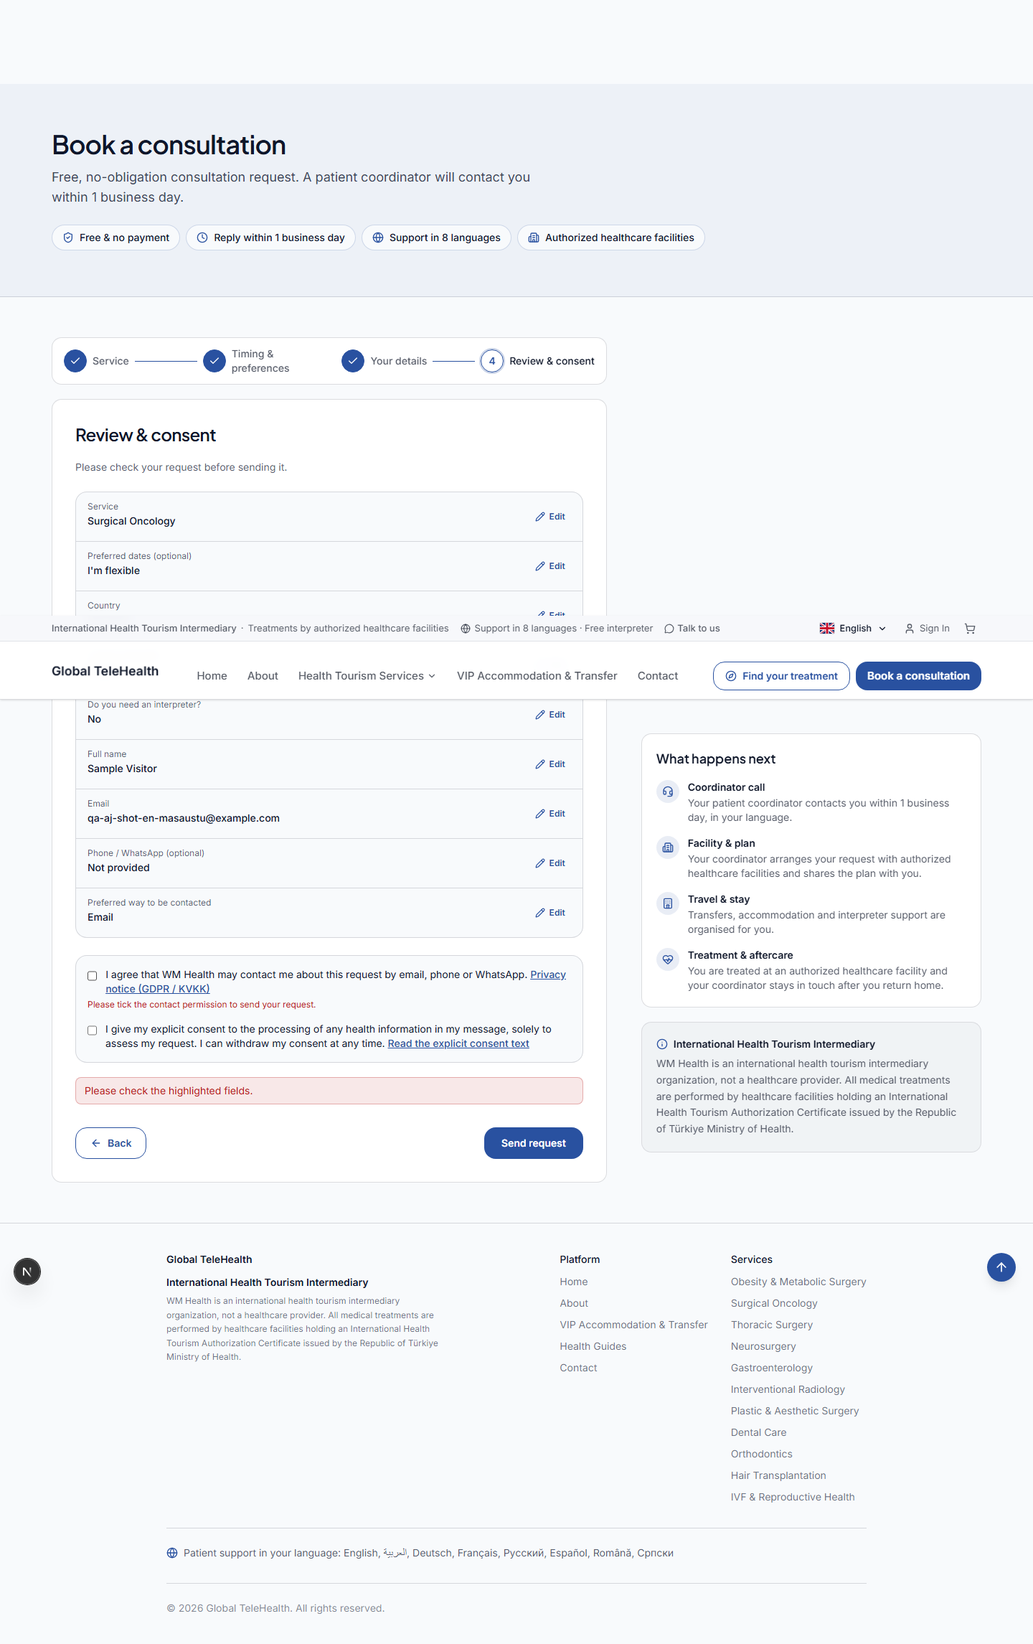
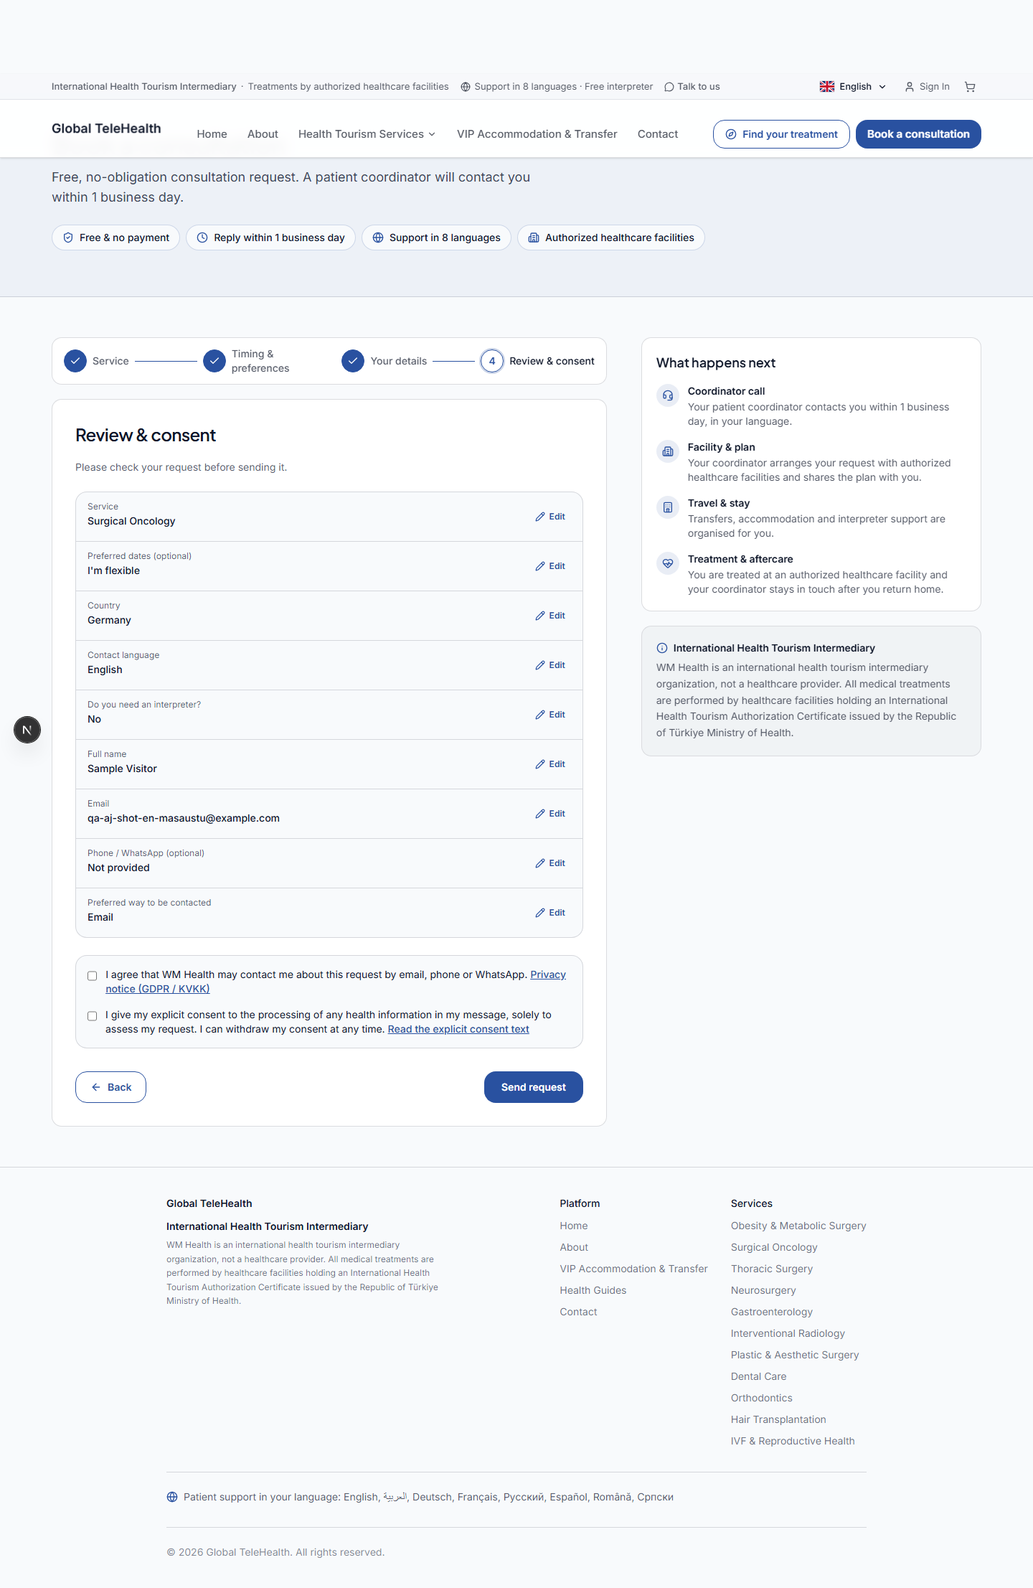
docs(aj): Paket AJ raporu ve AG Is 3 durum raporu; e2e spec'e inceleme adimi riza hatasi kontrolu, yenilenen EN goruntuleri

diff --git a/frontend/tests/e2e/aj-screenshots.spec.ts b/frontend/tests/e2e/aj-screenshots.spec.ts
@@ -380,6 +380,8 @@ for (const lang of LANGS) {
         await shot("07-talep-adim3", true);
         await page.getByTestId("request-next").click();
         await expect(page.getByTestId("request-step-4")).toBeVisible();
+        // AJ-7 düzeltmesi (58ec452): inceleme adımına geçmek formu göndermez, rıza hatası kullanıcı göndermeden görünmez.
+        await expect(page.getByTestId("request-consent-contact-error")).toHaveCount(0);
         await shot("08-talep-adim4", true);
         await page.getByTestId("request-consent-contact").check();
         await page.getByTestId("request-consent-health").check().catch(() => undefined);

diff --git a/docs/prompts/2026-11-02-AJ-RAPOR.md b/docs/prompts/2026-11-02-AJ-RAPOR.md
@@ -1,0 +1,169 @@
+# Paket AJ — Gece Düzeltmeleri Raporu (2026-11-03 sabahı)
+
+Dal: **`feat/aj-fixes-nov02`** (taban `a594b39` = canlıdaki master). Push yapılmadı. Her AJ işi ayrı commit.
+Netleştirme uygulandı: "video consultation" ifadesi **kaldı** (görüşmeyi hasta koordinatörü yapar); yalnızca doktorla görüşme ima eden ifadeler düzeltildi. LiveKit / görüşme odası / `consultation-room.tsx` / doktor token kuralları **değişmedi**. Compose, Dockerfile, Nginx, `.env`, `docs/legal/` **değişmedi**. Yeni npm paketi yok. Tek migration yalnızca ekleme.
+
+## 1. Commit'ler (sırayla)
+
+| İş | Commit | Özet |
+|---|---|---|
+| AJ-5 | `be45326` | `doktor.` alt alan adı ve `/doctor/**` ziyaretçiye kapalı → 301 ana site kökü; `DOCTOR_PORTAL_ENABLED=true` ile geri açılır |
+| AJ-7 (BE) | `34fe0e8` | Talepte tercih edilen iletişim kanalı (`preferredContactChannel`), migration, OpenAPI, test |
+| AJ-4 (BE) | `2db055e` | CRM Talepler uçları `/admin/crm/requests` (liste, filtre, durum, atama, iç not, CSV, mesaj görüntüleme + audit) |
+| AJ-3 | `e90d3fe` | VIP Accommodation & Transfer zengin sayfa (6 kart, yolculuk şeridi, CTA, CMS görselleri, 8 dil) |
+| AJ-7 (FE) | `763abd3` | `/request` 4 adımlı form, yapışkan yan panel, başarı ekranı, kanal seçimi, header taşma önlemi |
+| AJ-4 (FE) | `99189b2` | Admin CRM → "Danışma Talepleri" ekranı |
+| AJ-6 (BE) | `5b478d0` | `fill-footer-intermediary.ts` (Platform / Services / Legal, 8 dil, kuru/yedek/restore/prod bayrağı) |
+| AJ-9 (BE) | `957a235` | `apply-brand-theme.ts` (#2951a0 / #4ab9e1, WCAG AA kontrolü) + e-posta yedek rengi marka mavisi |
+| AJ-2 (BE) | `1ae9e2c` | Müşteri e-postaları ve paket tohum metinlerinde hekim ima eden ifadeler → tedavi / yetkili sağlık kuruluşu dili |
+| AJ-7 (FE) | `28a993d` | Talep formu VIP `?topic=` parametresiyle mesajı ön doldurur (8 dil) |
+| AJ-8 | `4fde5a3` | Üst şerit: Contact support ve WhatsApp kalktı, "Talk to us" tek öğe, kesilmez metin, mobil kısa ibare şeridi, ziyaretçi destek listesinde TR yok |
+| AJ-1 | `572919e` | Ana sayfa koordinatör bandı yeniden tasarımı (iki dengeli kolon, eşit dil çipleri, dikey düğmeler + Book a consultation) |
+| AJ-2 (FE) | `ecfaeb1` | Find your treatment modalı (tema rengi, yatay taşma, kapat odak halkası, eşit kartlar) + ziyaretçi tarafı hekim taraması + HTML tarama testi |
+| AJ-6 (FE) | `efbd7ad` | Ana sayfa CMS hekim vurgulu metinleri süzülür, boş footer kolonu gizlenir, "Book a consultation" etiketi |
+| AJ-2 (FE) | `f046601` | Header eski menü verisindeki "Consult Physicians" öğesini çizmez; kullanılmayan `vip*` / `dropdownFindDoctor` anahtarları silindi |
+| AJ-4 (test) | `c3f235d` | Tarih filtresi testi İstanbul günüyle (gece 00–03 arası düşüyordu; ürün kodu doğruydu) |
+| AJ-9 (test) | `aba3248` | Kalite turu ekran görüntüsü spec'i + 140 görüntülük matris |
+| AJ-7 (düzeltme) | `58ec452` | İnceleme adımına geçince form kendiliğinden gönderilmiyor (kalite turu bulgusu) |
+| AJ-2 (test) | `c4f21e7` | Mobil dil seçici testi eski hekim menü kaydının çizilmediğini bekler |
+| AJ-9 (test) | (bu rapor commit'i) | E2E spec'e inceleme adımı rıza hatası kontrolü, yenilenen EN görüntüleri |
+
+Not: `763abd3`, `28a993d`, `4fde5a3`, `572919e`, `ecfaeb1`, `efbd7ad` commit'lerinin ortak yazar satırı "Claude Sonnet 5.5" yazıyor (alt ajan oturumunun atıf ayarı); içerik etkilenmez, geçmiş yeniden yazılmadı.
+
+## 2. Yapılamayanlar / bilinçli bırakılanlar
+
+- **Telehealth tema rengi (ana sayfa hero'su teal):** hero gradyanı `Tele-Sağlık → Ayarlar → Tema` değerinden geliyor; `apply-brand-theme.ts` yalnızca site görünümünü (`SiteAppearance`) değiştiriyor. Gece script'i genişletmedim → **panelden** düzeltilecek (§6).
+- **İletişim sayfası hidrasyon uyarısı (AJ öncesi, mevcut sorun):** telefon ülke kodu listesi `Intl.DisplayNames` ile üretiliyor; Node ve tarayıcı farklı ad/sıralama veriyor. Sayfa çalışıyor, yalnızca geliştirme ortamında uyarı. Yapılacaklar listesine alındı.
+- **Kap genişliği tutarlılığı (öneri):** header `max-w-[1360px]`, içerik sayfaları `max-w-6xl`, footer `max-w-5xl`. Bu AJ öncesi site deseni; tüm siteyi gece değiştirmek riskli olduğu için yapılmadı. İstenirse tek iş olarak ele alınabilir.
+- **Admin paneli (ziyaretçi dışı):** CRM ekranında breadcrumb "CRM > Düzenle" yanlış etiket; admin panelinde indigo kalıntıları; yan menüde "Yetki Belgeleri ve Akreditasyonlar" kırpılıyor. Küçük, sonraki tura.
+- **Yorum daveti e-postası** ("Thank you for your consultation with {doctor}") ve mevcut telehealth randevu e-postaları: geçmiş doktor randevularına ait, yeni randevu açılamadığı için **legacy** bırakıldı.
+- **`packages.routes.ts` `relatedDoctors`:** public API'de hâlâ dönüyor, ziyaretçiye gizleme frontend'de. Backend'den kapatmak ayrı karar.
+- **MANAGER rolüyle PII'siz CSV:** CRM kapısı yalnızca ADMIN'e açık olduğundan HTTP üzerinden test edilemedi (kod dalı mevcut).
+
+## 3. Varsayımlar
+
+- "decisions are made by physicians at authorized healthcare facilities" türü ifadeler **aracı kuruluş beyanı** sayıldı ve izinli bırakıldı (HTML tarama testinde istisna listesinde).
+- Koordinatör bandı açıklamasından "interpreters … at no extra cost" çıkarıldı; tercüman cümlesi yalnızca ayarda tercüman dahilse görünür (doğruluk kuralı).
+- Üst şerit öğeleri kodda olduğu için AJ-8'de veri script'i gerekmedi.
+- AJ-6 CMS süzme kayıtları **silmez**; yalnızca ziyaretçiye göstermez. Kalıcı temizlik panelden (§6).
+
+## 4. Migration
+
+`20261116090000_aj_contact_channel` — yalnızca ekleme:
+
+```sql
+ALTER TABLE "consultation_requests" ADD COLUMN "preferredContactChannel" TEXT;
+```
+
+## 5. Hekim ifadesi tarama tablosu (özet)
+
+| Yer | İfade | Değişiklik |
+|---|---|---|
+| Matcher onay e-postası (8 dil) | "physician matching request" vb. | "treatment matching request" ve karşılıkları |
+| Paket tohum metinleri | "Consultation/Assessment by a physician" | "…at an authorized healthcare facility" |
+| Matcher sözlükleri (9 dil) | Physicians who can help, Book with {name}, View profile… | 7 kullanılmayan anahtar silindi; `priorLabel` → "Has this already been diagnosed?" |
+| `trust-pages.ts` `csIntro` (8 dil) | "consultation with a physician" | "a medical consultation" |
+| `blog.ts`, `packages.ts`, `reviews.ts`, `telehealth.ts` | Consult a physician, doktor sayıları vb. | kullanılmayan anahtarlar silindi |
+| Yorum kartları | "Reply from the physician" | `DOCTORS_VISIBLE_TO_VISITORS` bayrağına bağlandı |
+| Ziyaretçi RSC yükü | yorumlardaki `doctor` / `doctorReply` | `withoutDoctorFromReviews` ile çıkarıldı (kayıt silinmez) |
+| İletişim sayfası | `?doctor=` ön doldurma | bayrak kapalıyken yok sayılır |
+| Header / footer | `/physicians` "Consult Physicians" | süzülüyor |
+| Ana sayfa CMS (hero, journey, doctors, closing) | "Meet Our Medical Team", "video consultation with our doctors" | kodda süzülüyor → sözlük varsayılanı |
+| `request.ts` / `nav.ts` | eski `vip*` (18), `dropdownFindDoctor` | silindi (9 dil) |
+
+Otomatik koruma: `frontend/tests/unit/aj-visitor-doctor-scan.test.tsx` (render edilmiş metin + aria/title/alt + JSON-LD; EN tam, 7 dilde sözcük taraması). İstisna listesi boş (FE-A beklemedekiler kapatıldı).
+
+## 6. Panelden düzeltmeniz gerekenler
+
+Kod bu alanları ziyaretçiden zaten gizliyor; panel düzeltmesi kalıcı temizlik ve doğru metin içindir.
+
+1. **Tele-Sağlık → Ayarlar → Tema:** `primaryColor = #2951a0`, `calendarActiveBg = #2951a0`, `accentColor = #4ab9e1` (secondary `#0369a1` kalabilir veya `#2951a0`). Ana sayfa hero'su ve (AI İş 3'te) randevu ekranı bu renkleri kullanır.
+2. **Görünüm → Renkler:** `apply-brand-theme.ts` çalıştıktan sonra script'in listelediği mor tonlu kalanları (ör. `pageHeaderBackgroundColor = #7c3aed`) marka mavisine çekin.
+3. **Ana sayfa (Sayfalar → Ana Sayfa) blokları:**
+
+| Blok | Alan | Olası mevcut metin | Önerilen (EN) |
+|---|---|---|---|
+| Hero | eyebrow / başlık / gövde / CTA | "Meet Our Medical Team", "video consultation with our doctors" | Gövde: "Free online video consultation with a patient coordinator — interpreter included." CTA: "Book a consultation" / "Find your treatment" |
+| Hero | görsel alt metni | "Doctor on a video call" | "Patient coordinator on a video call" |
+| Journey adım 3 | text | "The physician responsible for your care completes…" | "Examinations and treatment take place at an authorized healthcare facility, with your coordinator by your side." |
+| Doctors bölümü | enabled | açık | **kapatın** |
+| Closing | başlık / CTA | hekim ima eden metin | "Start with a consultation" |
+| SEO | title / description | "…our doctors" | "…patient coordination and authorized healthcare facilities" |
+
+4. **Hakkımızda:** hero gövdesindeki "Founded under the leadership of Dr. Vahit Mutlu…" → doktor adı olmayan aracı kuruluş metni; "Meet our doctors" CTA → "Who we are"; Doctors bölümünü kapatın; closing CTA "Book a consultation" → `/request`.
+5. **Menü / footer:** "Consult Physicians", "Doctors", `/physicians` öğelerini silin (kod zaten gizliyor).
+6. **Yasal sayfalar:** her EN yasal sayfaya EN slug + EN başlık girip yayınlayın; footer script'inin "EKLENMEDİ" uyarısı bunları listeler; sonra script'i yeniden çalıştırın.
+7. **VIP görselleri:** Sayfalar → slug `vip-accommodation-transfer` sayfasına en çok 6 görsellik galeri ekleyin (yoksa sayfa ikonlu kartlarla görünür).
+8. **Paketler ve SSS:** "physician" geçen paket "includes" satırlarını güncelleyin (tohum değişikliği canlı kayıtları değiştirmez).
+9. **İletişim sayfası ayarları:** telefon ve e-posta doluysa talep sayfası yan panelinde otomatik görünür. **Telehealth dil desteği** ayarında `tr` seçiliyse kaldırın (kod zaten gizliyor). **Belge numarası** girilirse yan panelde belge satırı çıkar.
+10. Destek saati metni ("Mon–Sat…") ayar verisinde tek dilde; AR'de de İngilizce görünür — istenirse ayardan dile göre düzenleyin.
+
+## 7. Script kuru çalışma çıktıları (saas_test)
+
+**Footer:** Platform 1 güncelleme + 4 ekleme, Services aktif üst hizmetler, Legal EN yasal sayfalar; TR yasal sayfa çıkarılır; ikinci çalışma "Yapılacak değişiklik yok (idempotent)"; restore çalıştı.
+**Marka renkleri:** tüm kontrastlar GEÇTİ (düğme metni 7.56:1; vurgu #4ab9e1 yalnızca dekoratif, metin rengi değil); `pageHeaderBackgroundColor=#7c3aed` listelenir ama değiştirilmez.
+
+## 8. Ekran görüntüleri
+
+- Ana: `docs/prompts/2026-11-02-AJ-ekran/` — EN/AR, 1440 ve 390: ana sayfa (üst şerit, koordinatör bandı, footer), talep adım 1–4 + başarı, Find your treatment modalı (başlangıç + sonuç), admin CRM talepler liste + detay.
+- Kalite turu matrisi: `docs/prompts/2026-11-02-AJ-ekran/kalite-turu/` — 2 dil × 5 genişlik (1440/1280/1024/768/390) × 14 sayfa = 140 görüntü + `bulgular.json`.
+- "Önce" referansı: `docs/prompts/2026-11-02-AI-ekran/` ve `2026-11-02-AH-ekran/`.
+- **Yatay taşma:** 140 ölçümün hiçbirinde taşma yok. Ziyaretçi sayfalarında mor/indigo kalıntı yok. VIP'te uydurma istatistik / sahte akreditasyon / fiyat / "doktorlarımız" yok.
+
+## 9. Testler
+
+- **Backend tam süit (sıralı):** 2930 geçti, 12 atlandı; düşenler: `telehealth-demo-payment` (bilinen, önceden düşen), `crm-requests` (gece saat dilimi testi → düzeltildi `c3f235d`, yeniden koşuda geçti), `telehealth-admin-reschedule` (DB sıfırlamada anlık deadlock; tek başına geçti).
+- **Frontend tam süit (sıralı, `--no-file-parallelism`):** 2221 geçti, 2 düştü → `featured-doctors-block` (bilinen, önceden düşen) ve `language-sheet` (eski "Consult Physicians" menü öğesini bekliyordu; AJ-2 davranışına göre güncellendi `c4f21e7`, 7/7 geçti).
+- **E2E (gerçek tarayıcı, headless):** `aj-screenshots.spec.ts` "ana en masaustu / mobil" — talep 4 adım + gönderim + başarı, inceleme adımında rıza hatası **görünmüyor** (`58ec452` doğrulandı). 3/3 geçti.
+- Hedefli: `aj-visitor-doctor-scan` 23, `ah-request-form` 34, `ai-services-menu` 17, `matcher-wizard` 18, `visitor-no-turkish` yeşil.
+- typecheck: yeni hata yok (yalnızca eski `.next/types` artefaktları). eslint: yeni hata yok (bilinen `admin-panel-guard-route-table`, `reports-format`).
+- Yeni testler: `crm-requests` (8), `consultation-requests` (+1), `fill-footer-intermediary` (3), `apply-brand-theme` (5), `aj-visitor-doctor-scan` (23), `ah-request-form` (yeniden yazıldı, 34), e2e `tests/e2e/aj-screenshots.spec.ts` (`AJ_SHOTS=1`).
+
+## 10. Canlıya alma — adım adım (kopyalanabilir)
+
+Sunucuda, depo kökünde. Her script önce **kuru** çalıştırılır; ilk satırdaki `[hedef DB]` kontrol edilir.
+
+```bash
+# 0) Dalı master'a al (yerelde) ve sunucuda çek
+git checkout master && git merge --no-ff feat/aj-fixes-nov02 && git push   # (yerelde, siz)
+git pull                                                                  # (sunucuda)
+
+# 1) Değişkenler
+DB_URL=$(docker compose exec -T backend printenv DATABASE_URL | tr -d '\r')
+NET=$(docker inspect -f '{{range $k,$v := .NetworkSettings.Networks}}{{$k}}{{end}}' $(docker compose ps -q db))
+RUN() { docker run --rm --network "$NET" -v "$PWD/backend:/app" -w /app -e DATABASE_URL="$DB_URL" \
+  node:20-alpine sh -c "apk add --no-cache openssl >/dev/null && npm ci --silent && npx prisma generate >/dev/null && npx tsx $*"; }
+
+# 2) Migration (yalnızca ekleme: preferredContactChannel)
+docker run --rm --network "$NET" -v "$PWD/backend/prisma:/app/prisma" -w /app -e DATABASE_URL="$DB_URL" \
+  node:20-alpine sh -c "apk add --no-cache openssl >/dev/null && npx --yes prisma@5.22.0 migrate deploy"
+
+# 3) Uygulamayı yeniden kur
+docker compose up -d --build --no-deps backend frontend
+
+# 4) Footer doldurma (AJ-6) — önce kuru, sonra yazma
+RUN scripts/fill-footer-intermediary.ts
+RUN scripts/fill-footer-intermediary.ts --confirm=fill-footer-intermediary --operator="Ad Soyad" --i-know-this-is-prod
+#    Geri alma:
+#    RUN scripts/fill-footer-intermediary.ts --restore=storage/backups/footer-fill-<tarih>.json --confirm=fill-footer-intermediary --operator="Ad Soyad" --i-know-this-is-prod
+
+# 5) Marka renkleri (AJ-9) — önce kuru, sonra yazma
+RUN scripts/apply-brand-theme.ts
+RUN scripts/apply-brand-theme.ts --confirm=apply-brand-theme --operator="Ad Soyad" --i-know-this-is-prod
+#    Geri alma:
+#    RUN scripts/apply-brand-theme.ts --restore=storage/backups/brand-theme-<tarih>.json --confirm=apply-brand-theme --operator="Ad Soyad" --i-know-this-is-prod
+
+# 6) Yedek yolları (backend/storage/backups/) not edin
+ls -la backend/storage/backups/ | tail -5
+
+# 7) Duman testi
+curl -sI https://<site>/en/request | head -1
+curl -sI https://doktor.<site>/ | grep -i -E "^HTTP|^location"      # 301 → ana site bekleniyor (AJ-5)
+docker compose logs --tail=100 backend | grep -i error
+```
+
+Not: Footer "Services" etiketleri hizmet adlarından gelir; AI'nin `rename-service-labels.ts` script'i canlıda zaten çalıştıysa ek adım yok.
+
+**Elle duman testi:** `/en/request` 4 adım + tercih edilen kanal ile test talebi → admin "Danışma Talepleri" (liste, durum, atama, not, CSV, mesaj görüntüleme 2FA'lı ADMIN ile); footer 3 kolon dolu; düğme rengi `#2951a0`; `/en/vip-accommodation-transfer`; bölüm sayfasında `?finder=1` modalı; `doktor.` alt alanı ana siteye gidiyor. Ardından §6 panel listesi.
+
+**Doktor portalını geçici açmak gerekirse:** frontend ortamına `DOCTOR_PORTAL_ENABLED=true` (bu `.env` değişikliğini siz yaparsınız; ben dokunmadım).

diff --git a/docs/prompts/2026-11-02-AG-IS3-RAPOR.md b/docs/prompts/2026-11-02-AG-IS3-RAPOR.md
@@ -1,0 +1,73 @@
+# AG İş 3 (Harici Toplantı) — Durum Raporu (2026-11-03 sabahı)
+
+> Kısa özet: **AG İş 3 bu gece canlıya alınabilir durumda DEĞİL.** Sıra değişikliğiyle (SON SIRA: 1) AJ → 2) AI İş 3 hızlı sürüm → 3) AG İş 3'ün kalanı) iş yarıda donduruldu. Kod `feat/ag-meetings-nov02` dalında güvende; push yok. Bu rapor, kalan işi ve canlıya alma adımlarını sabah için hazır tutar.
+
+## 1. Dal ve commit'ler
+
+| Commit | Açıklama |
+|---|---|
+| `e80748d` | Yarım iş (`f5b6efa`) güncel master'ın (`a594b39` = AH Faz 1 + AI İş 1–2) üzerine taşındı; migration klasörü `20261115090000_external_meetings` olarak yeniden adlandırıldı. |
+| `506505c` | **WIP** — tamamlama turu yarıda (hata kodları, misafir adı doğrulaması, token uçları, davet e-postası tr→en, admin-users uçları, OpenAPI, 9 dil `meeting.ts` sözlükleri, form/kart/yönetici bileşenleri, testlerin bir kısmı). **Testler ve güvenlik incelemesi tamamlanmadı.** |
+
+Dal: `feat/ag-meetings-nov02` (taban `a594b39`). AJ dalıyla (`feat/aj-fixes-nov02`) çakışabilecek ortak dosyalar: `docs/architecture/openapi.yaml`, `backend/tests/unit/__snapshots__/branded-email.test.ts.snap`, `system-email-catalog.ts`, admin sidebar, `doctor-portal-route-guard` / `proxy.ts` (AJ-5 doktor alt alanını kapattı — bkz. §4).
+
+## 2. Onaylı kararlar (S1–S11) ve uygulama durumu
+
+| Karar | Durum |
+|---|---|
+| S1 `/admin/meetings` + `/{lang}/doctor/meetings` | Sayfalar var; admin sidebar'da "Toplantılar" ve "Yeni toplantı" düğmesi eklendi — **uçtan uca doğrulanmadı** |
+| S2 2FA zorunlu değil + öneri bilgilendirmesi + audit + oran sınırı | Kod kısmen; audit/oran sınırı testleri **eksik** |
+| S3 yetki geri alınınca gelecek toplantılar iptal | Backend'de var; test **eksik** |
+| S4 ADMIN tüm toplantıları listeler/iptal eder, katılamaz | Backend var; FE görünümü **doğrulanmadı** |
+| S5 davet e-postası yalnız oluşturma kartında; sonradan gönderim yeni bağlantı | Kart + uyarı var; hash eşleşme testi **eksik** |
+| S6 misafir adı yalnız `ExternalMeetingGuest`, 90 gün silme | Süpürücü var; test **eksik** |
+| S7 `endsAt`'te kapanış, +10 dk çıkarma | Süpürücü var; test **eksik** |
+| S8 lobi yok, bekleme + "çıkar" | Bileşen var; **doğrulanmadı** |
+| S9 başlık misafire görünür, uyarı, not yalnız ev sahibine | Form uyarısı var |
+| S10 route guard dar istisna `/meet/{id}`, `/meet/join` | Var — **AJ-5 sonrası yeniden değerlendirilmeli** (§4) |
+| S11 sınır ev sahibi dahil, varsayılan 4, en çok 8 | Form + doğrulama var |
+
+## 3. Kalan işler (AG İş 3'ün kalanı — SON SIRA'da 3. adım)
+
+1. Dalı AJ + AI İş 3 hızlı sürüm birleştikten sonraki master'a yeniden taşı; migration'ı en son migration'dan sonraya al (öneri: `20261118090000_external_meetings`) — böylece klasör sırası uygulama sırasıyla aynı kalır.
+2. AI İş 3 hızlı sürüm, bu dalın **meeting-room bileşenini ve token ucunun gerekli kısmını** kullanacak; o kısım AI İş 3 dalında tamamlanıp test edilecek. AG İş 3'ün kalanı yalnızca **harici misafir ekranları** (misafir giriş/bekleme, bağlantı üretme/iptal, davet e-postası, admin tüm toplantılar görünümü) olacak.
+3. Backend: tüm meeting integration testleri (oran sınırı, audit, S3/S5/S6/S7), route-table, rate-limits, branded-email snapshot (bilinçli güncelleme).
+4. Frontend: `meetings-manager`, form, kart, misafir sayfaları (8 dil + RTL), `visitor-no-turkish` yeşil.
+5. Güvenlik incelemesi (security-agent) + KVKK değerlendirmesi (misafir adı, 90 gün).
+6. E2E: admin toplantı oluşturur → misafir bağlantısıyla katılır (headless, sahte LiveKit).
+7. Rapor + ekran görüntüleri.
+
+## 4. Dikkat: AJ-5 ile etkileşim
+
+AJ-5 (`be45326`) `doktor.` alt alan adını ve ziyaretçi tarafında `/doctor/**`'u ana siteye 301 yönlendiriyor (`DOCTOR_PORTAL_ENABLED` ile geri açılır). Bu nedenle S1'deki `/{lang}/doctor/meetings` ekranı, doktor portalı kapalıyken **erişilemez olur**. Varsayım: harici toplantılar şimdilik **yalnızca admin panelinden** (`/admin/meetings`) yönetilir; doktor portalı ekranı bayrak açılınca devreye girer. Misafir sayfaları (`/{lang}/meet/join`, `/{lang}/meet/{id}`) ana sitede olduğu için etkilenmez.
+
+## 5. Canlıya alma (AG İş 3 TAMAMLANDIĞINDA — şimdi çalıştırmayın)
+
+```bash
+# 0) Sunucuda, depo kökünde
+git fetch && git checkout master && git pull
+
+# 1) Değişkenler
+DB_URL=$(docker compose exec -T backend printenv DATABASE_URL | tr -d '\r')
+NET=$(docker inspect -f '{{range $k,$v := .NetworkSettings.Networks}}{{$k}}{{end}}' $(docker compose ps -q db))
+
+# 2) Migration (yalnızca ekleme: external_meetings tabloları)
+docker run --rm --network "$NET" -v "$PWD/backend/prisma:/app/prisma" -w /app -e DATABASE_URL="$DB_URL" \
+  node:20-alpine sh -c "apk add --no-cache openssl >/dev/null && npx --yes prisma@5.22.0 migrate deploy"
+
+# 3) Uygulamayı yeniden kur (compose, Nginx, LiveKit ayarı DEĞİŞMEZ)
+docker compose up -d --build --no-deps backend frontend
+
+# 4) Duman testi
+docker compose logs --tail=100 backend | grep -i -E "meeting|error"
+```
+
+## 6. Panelden yapılacaklar (AG İş 3 canlıya alındığında)
+
+1. Admin → Kullanıcılar: toplantı açabilecek personele "Toplantı ev sahibi" yetkisini ver (S3: geri alınca gelecek toplantıları iptal olur).
+2. Ev sahibi hesaplarında iki adımlı doğrulamayı açın (S2: zorunlu değil ama önerilir).
+3. Toplantı başlıklarına hasta adı yazılmamasını ekibe hatırlatın (başlık misafire görünür — S9).
+
+## 7. Testler
+
+Bu turda AG dalında test koşulmadı (iş donduruldu; `506505c` mesajında belirtildiği gibi testler tamamlanmadı). AJ dalının testleri AJ raporundadır.
